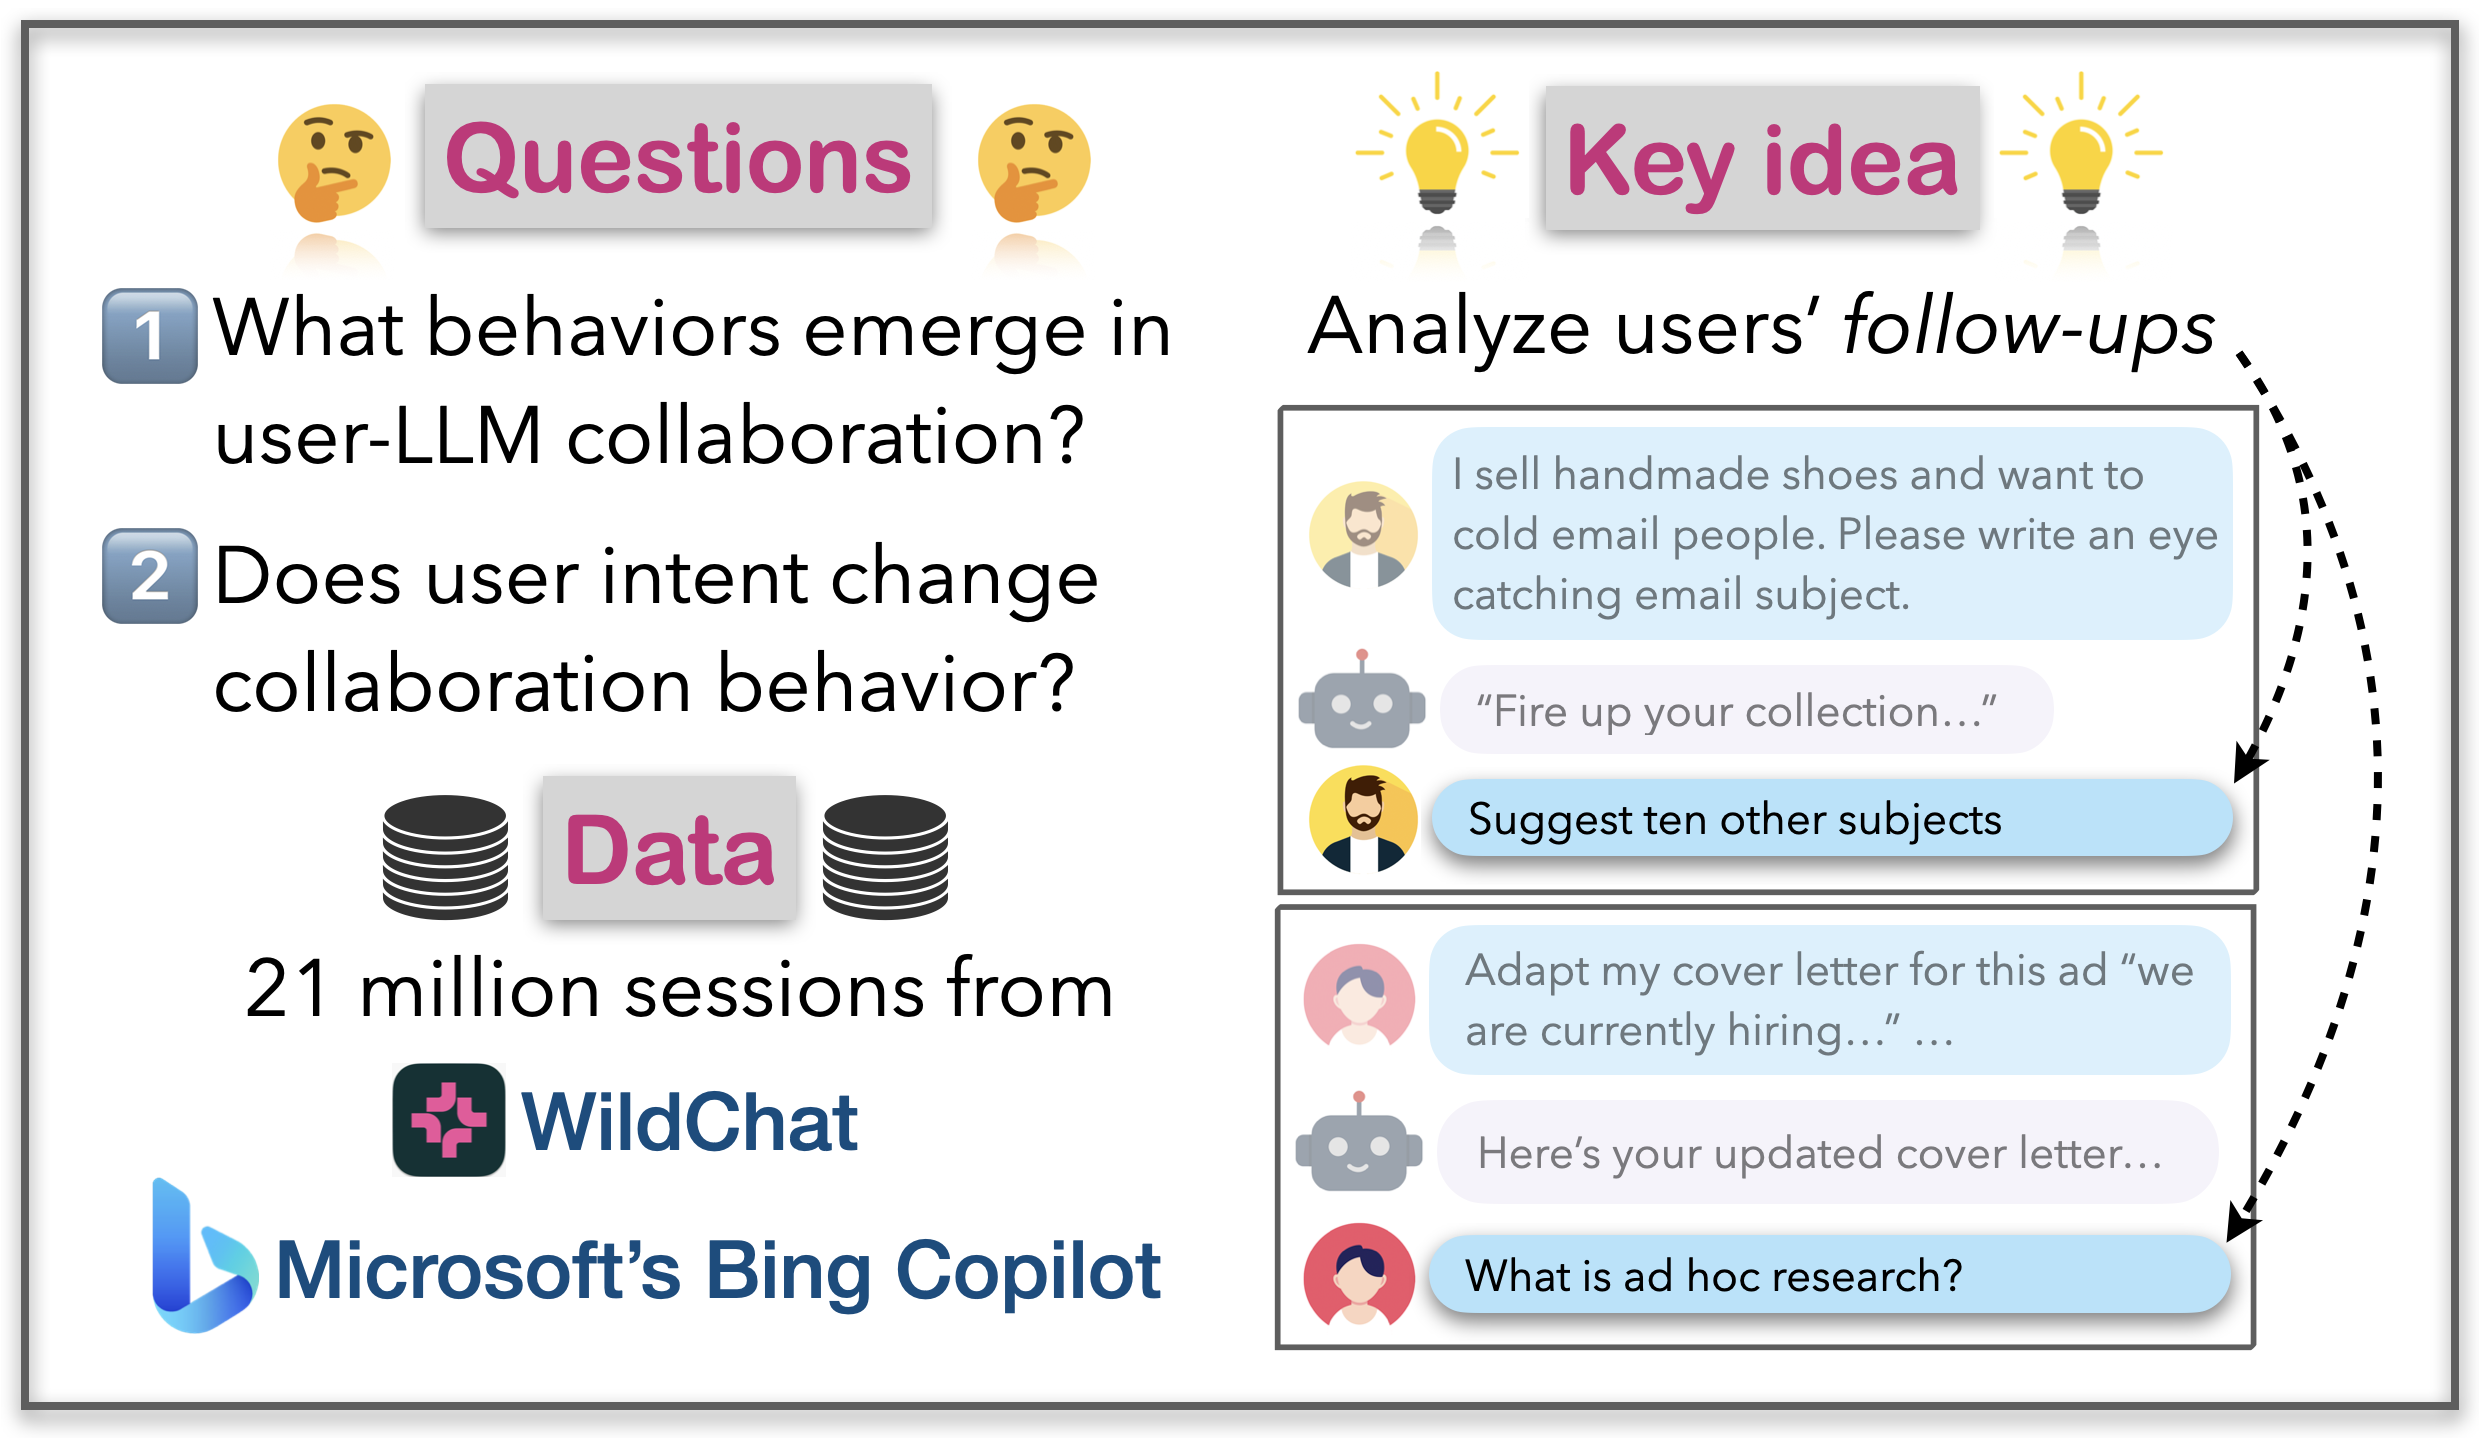
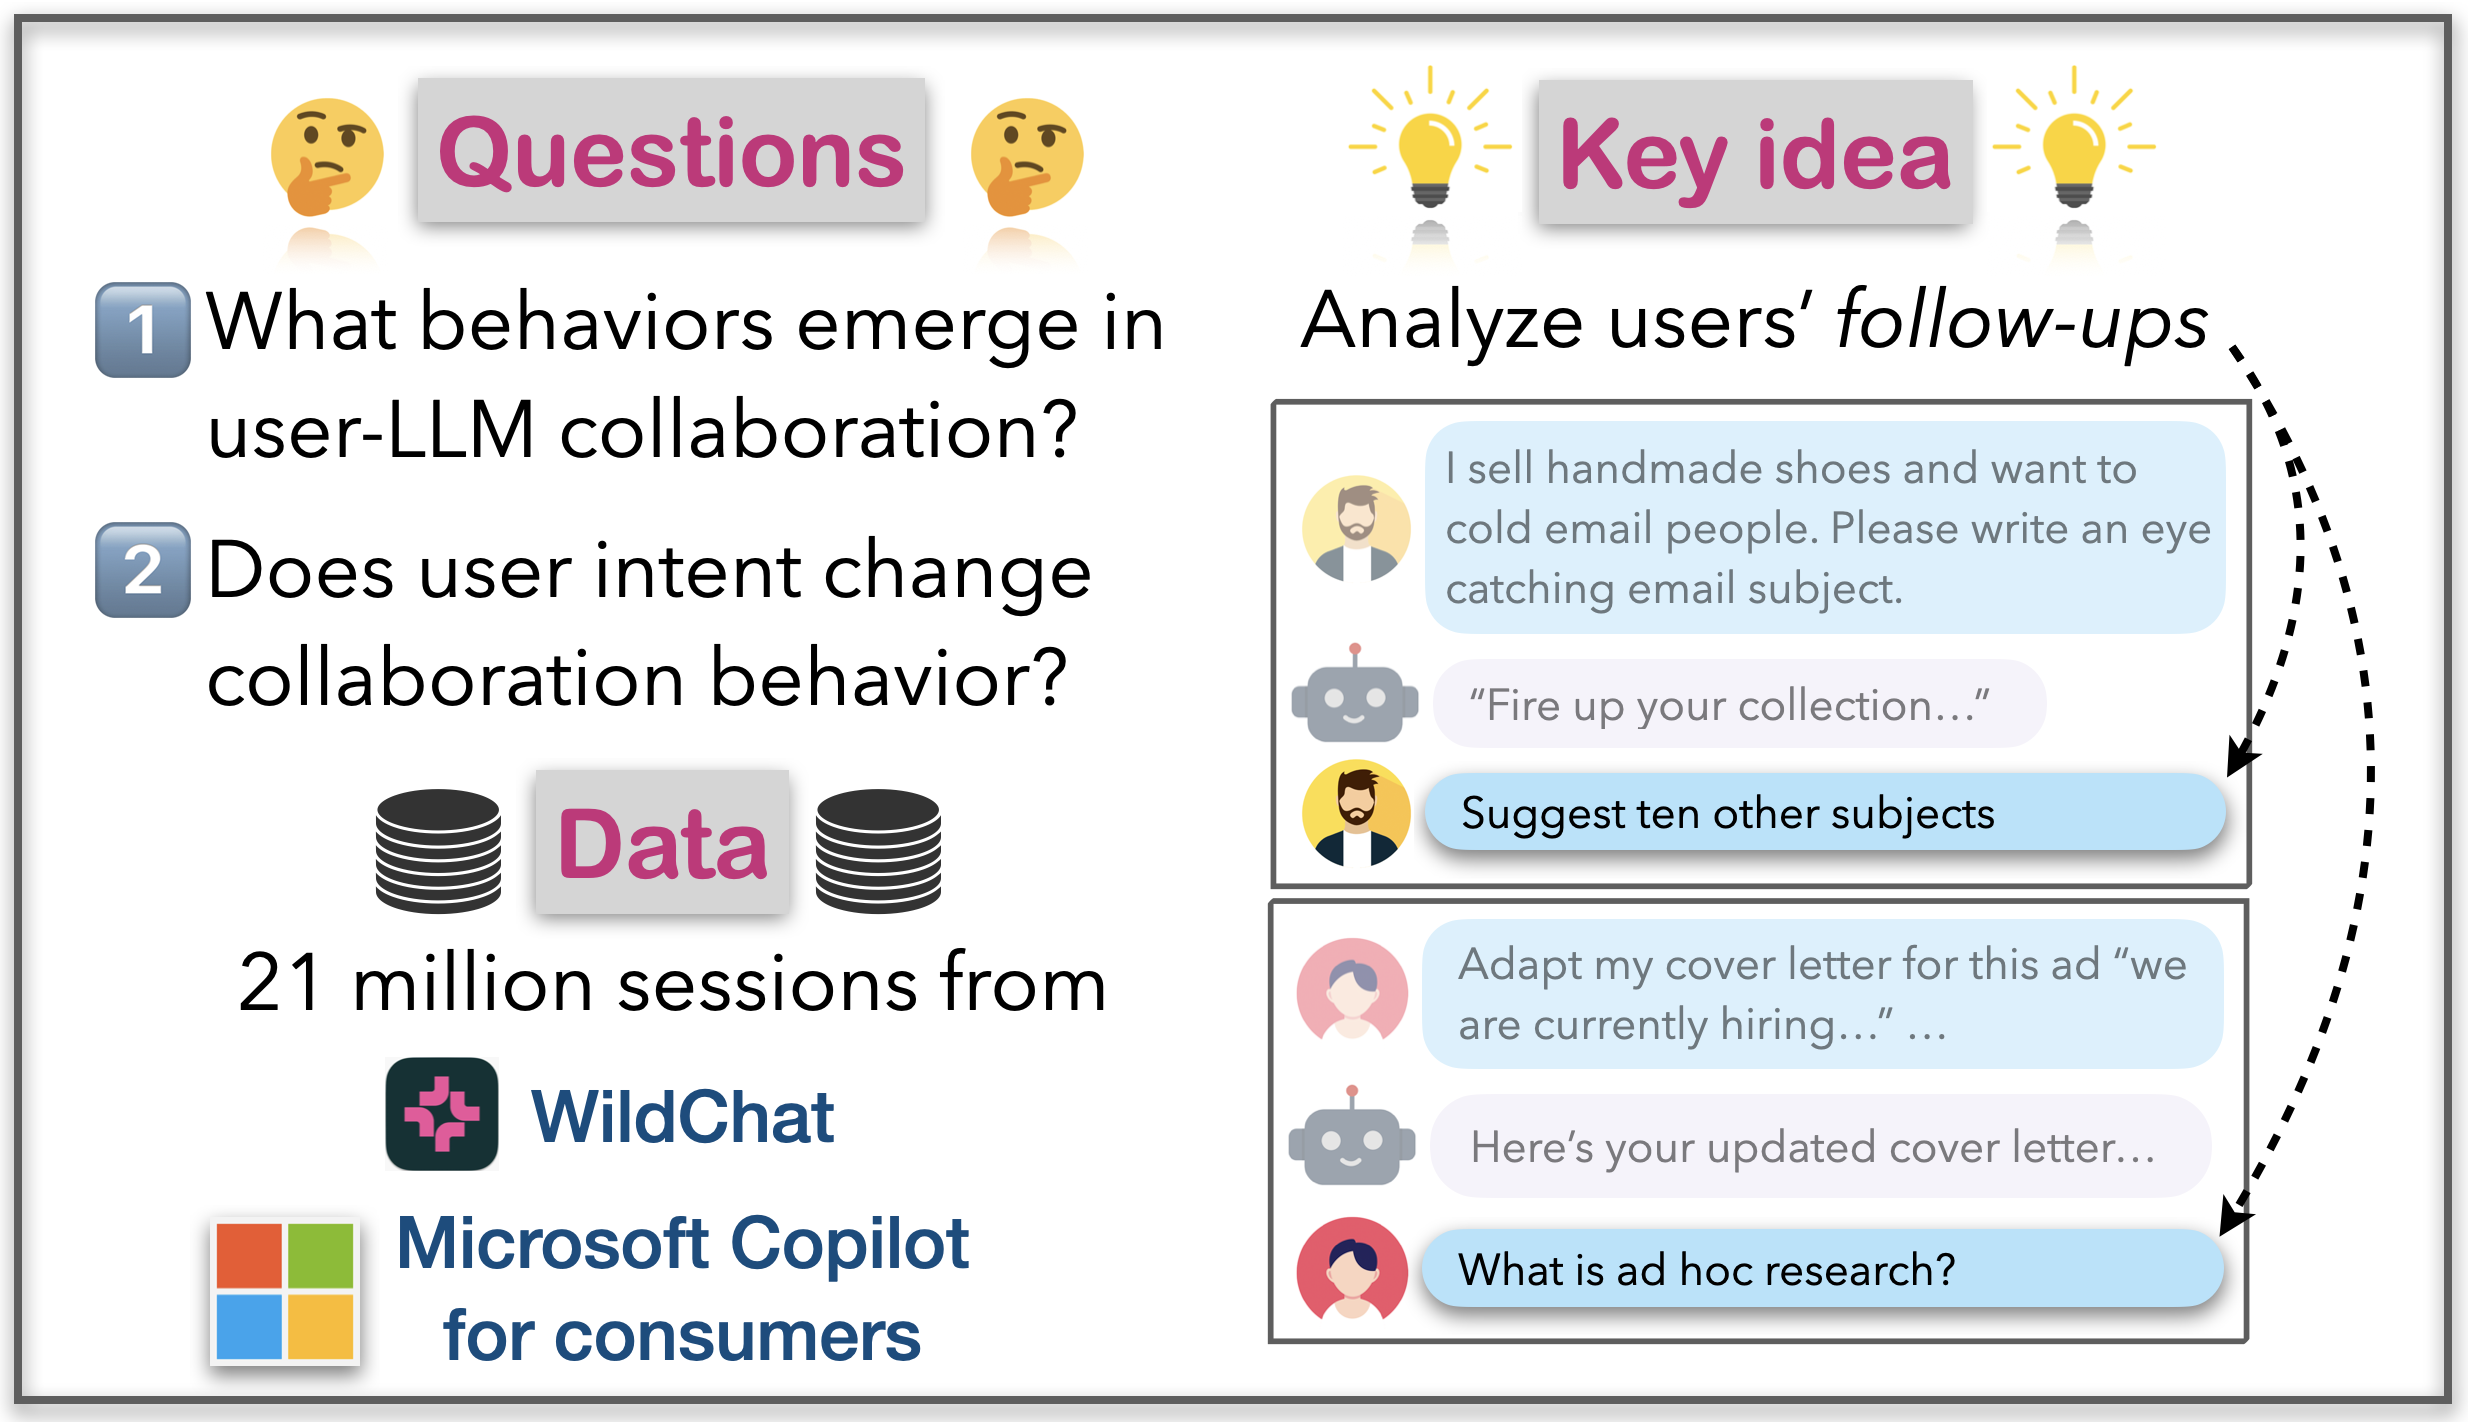
Update names.

diff --git a/index.html b/index.html
@@ -134,14 +134,14 @@
         <h2 class="title is-3">Overview</h2>
         <div class="content has-text-justified">
           <p>
-            What does it mean to <i>collaborate</i> with LLM-powered Copilots? A common metaphor is to think of LLMs as “assistants” – users supply a prompt specifying their task, the LLM responds, and users leave with the response in hand. Instead, we shifted our metaphor to LLMs as “collaborators” and asked what it means to collaborate with an LLM. To explore this, we analyzed English multi-turn sessions from 21 million Microsoft Bing Copilot and public WildChat logs, which reflect real-world user–LLM interactions.
+            What does it mean to <i>collaborate</i> with LLM-powered Copilots? A common metaphor is to think of LLMs as “assistants” – users supply a prompt specifying their task, the LLM responds, and users leave with the response in hand. Instead, we shifted our metaphor to LLMs as “collaborators” and asked what it means to collaborate with an LLM. To explore this, we analyzed English multi-turn sessions from 21 million Microsoft Copilot for consumer logs as well as public WildChat logs, which reflect real-world user–LLM interactions.
           </p>
         </div>
 
         <h2 class="title is-3">What we did</h2>
         <div class="content has-text-justified">
           <p>
-            Recent papers have taken the “assistant” metaphor and examined the tasks users initiate with AI tools such as <a href="https://www.anthropic.com/research/clio">Claude</a>, <a href="https://arxiv.org/abs/2404.04268">Bing Copilot</a>, and <a href="https://arxiv.org/abs/2405.01470">WildChat</a> (e.g. coding, search, writing, etc). Instead, we analyze users' <i>follow-ups</i> after making a request to the LLM because they capture how users collaborate with the LLM. We ran our analysis only on writing tasks to keep the analysis manageable.
+            Recent papers have taken the “assistant” metaphor and examined the tasks users initiate with AI tools such as <a href="https://www.anthropic.com/research/clio">Claude</a>, <a href="https://arxiv.org/abs/2404.04268">Microsoft Copilot for consumer</a>, and <a href="https://arxiv.org/abs/2405.01470">WildChat</a> (e.g. coding, search, writing, etc). Instead, we analyze users' <i>follow-ups</i> after making a request to the LLM because they capture how users collaborate with the LLM. We ran our analysis only on writing tasks to keep the analysis manageable.
           </p>
 
           <p>
